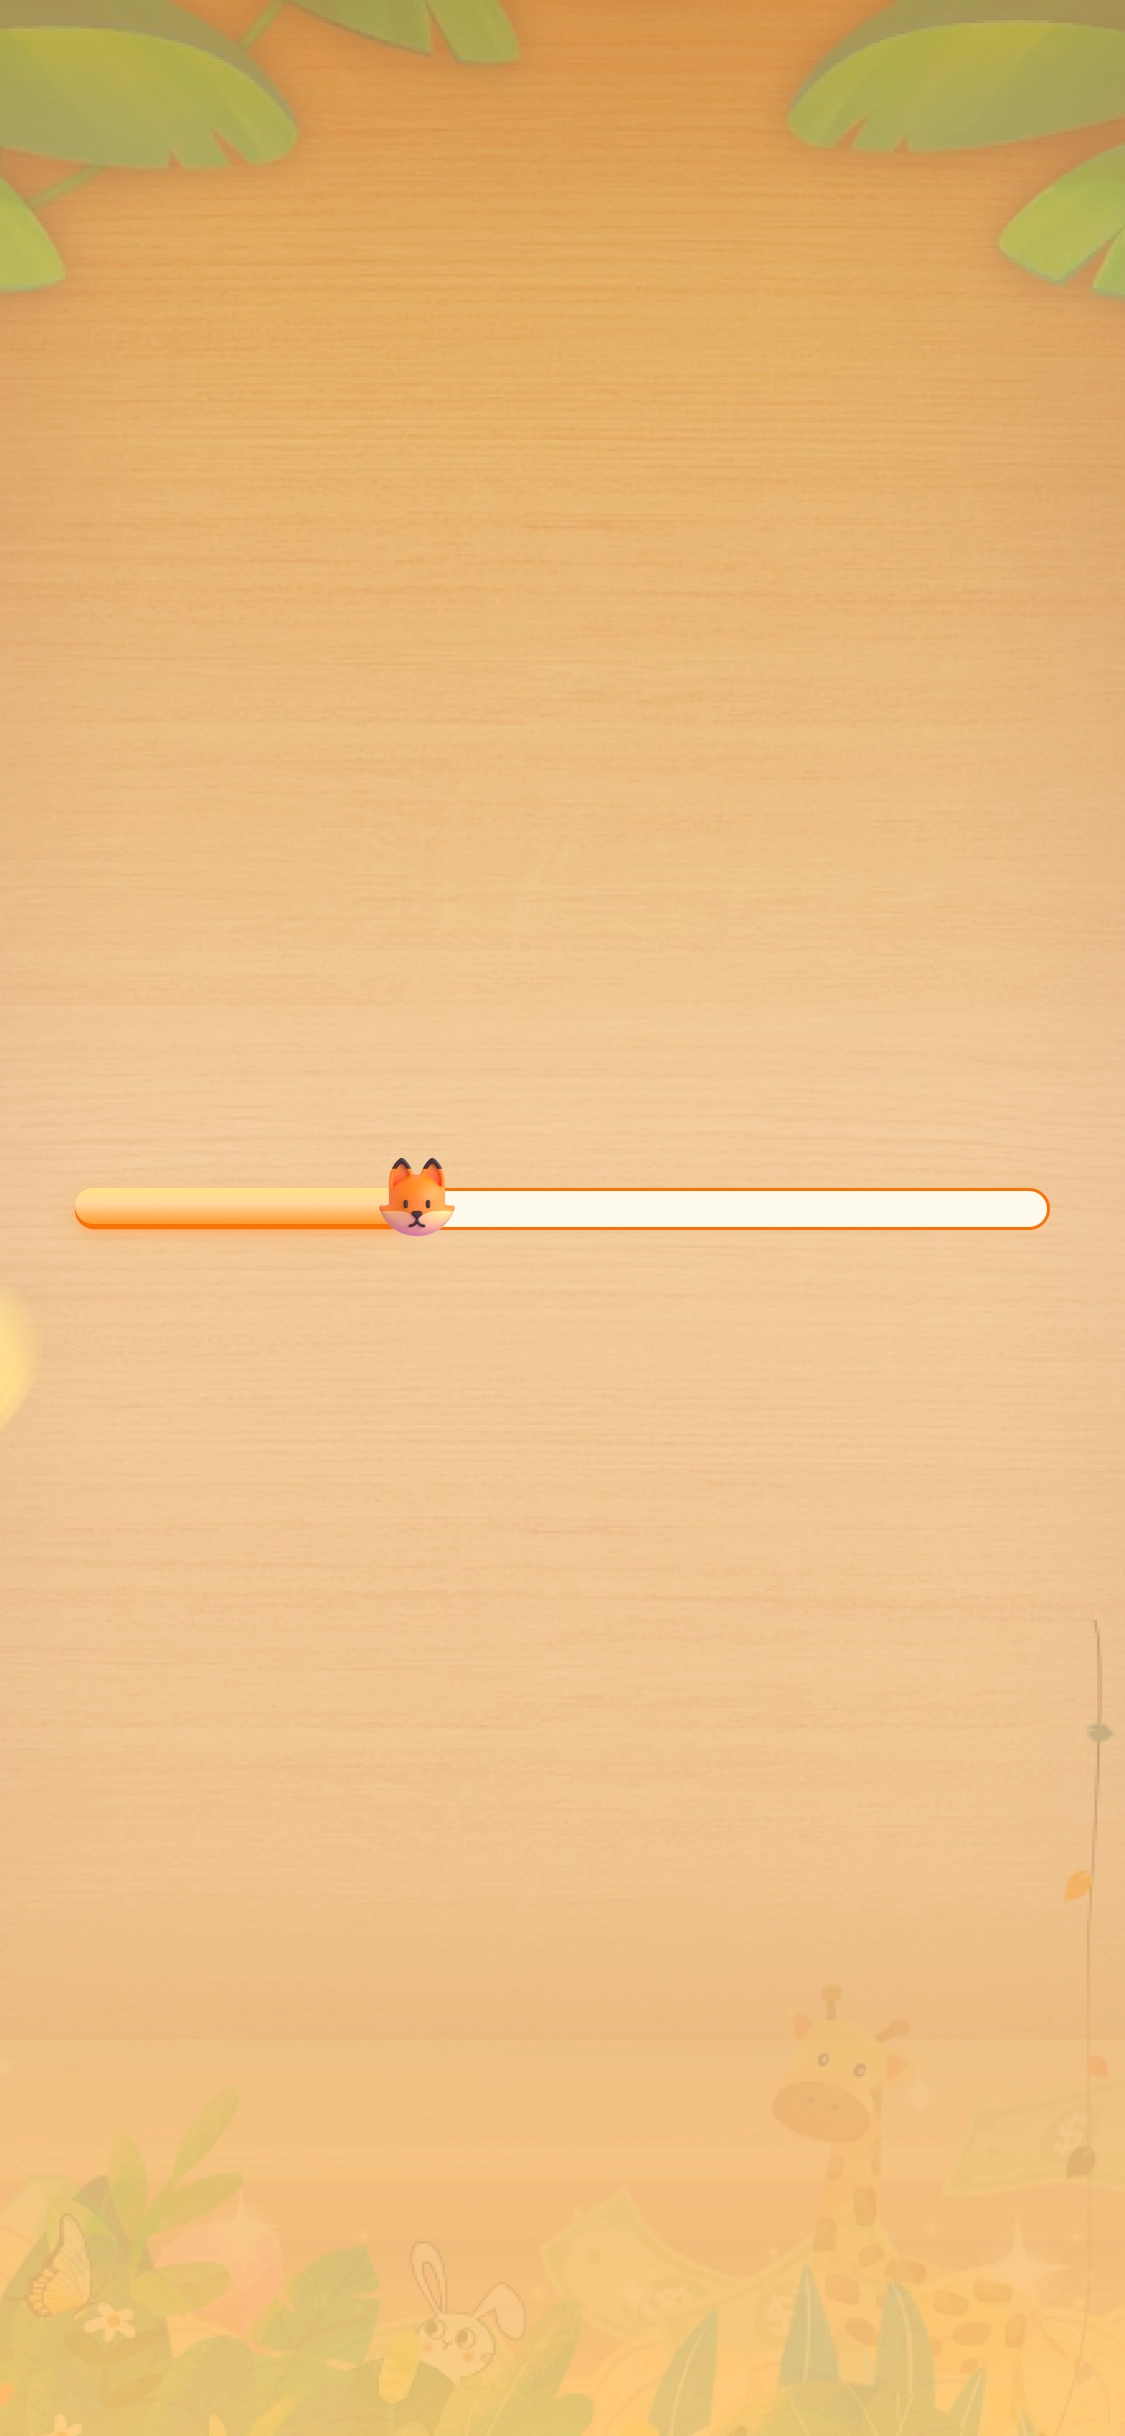
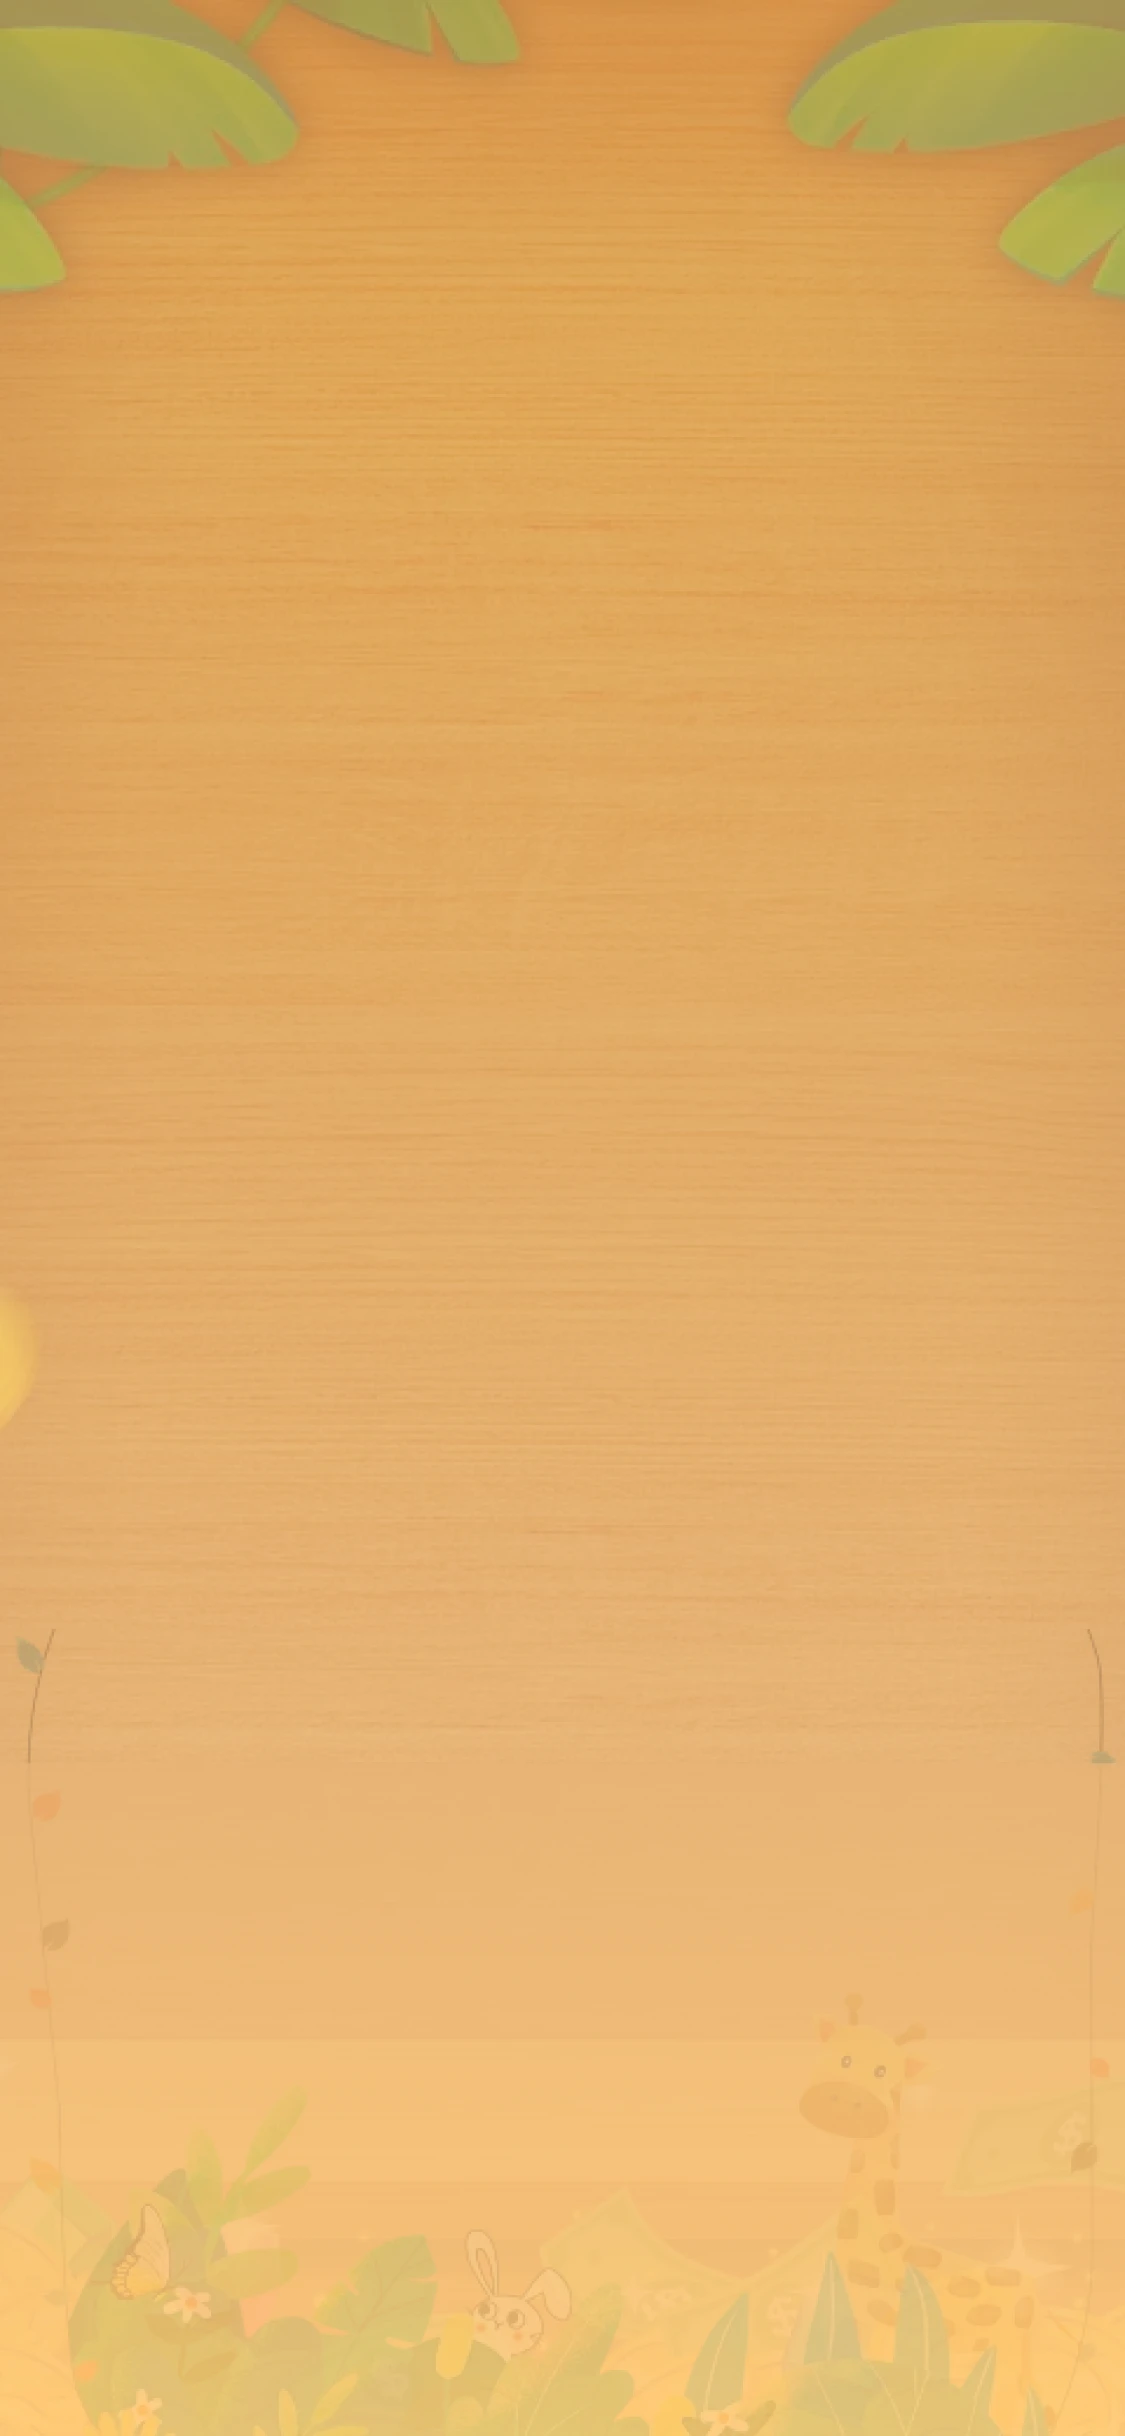
1.UI微调

diff --git a/lib/pages/game_room.dart b/lib/pages/game_room.dart
@@ -471,7 +471,7 @@ class GameRoomPageState extends State<GameRoomPage> {
             alignment: Alignment.bottomCenter,
             decoration: const BoxDecoration(
                 image: DecorationImage(
-                    image: AssetImage('assets/image/level_bg.webp'),
+                    image: AssetImage('assets/image/key_level_bg.webp'),
                     fit: BoxFit.fitHeight)),
             child: Text(
               AppLocalizations.of(context)!.level(nowLevel),
@@ -546,7 +546,7 @@ class GameRoomPageState extends State<GameRoomPage> {
                         fit: BoxFit.cover,
                       ))
                   : Image.asset(
-                      'assets/image/one_box.webp',
+                      'assets/image/fake_box_border.webp',
                       fit: BoxFit.cover,
                     )),
         ),
